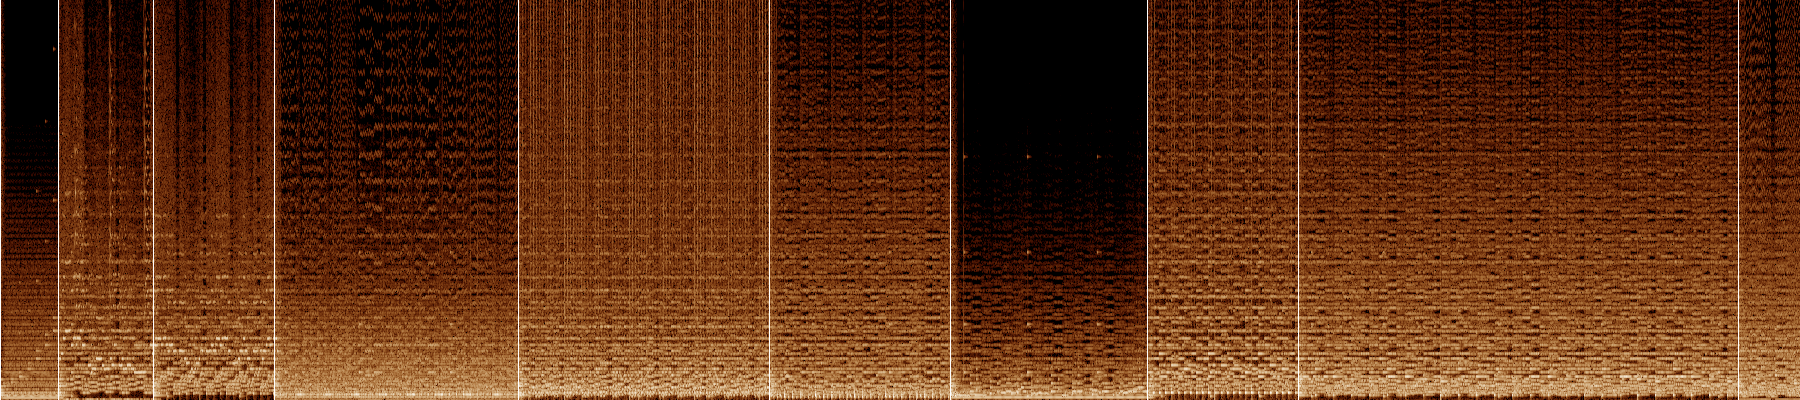
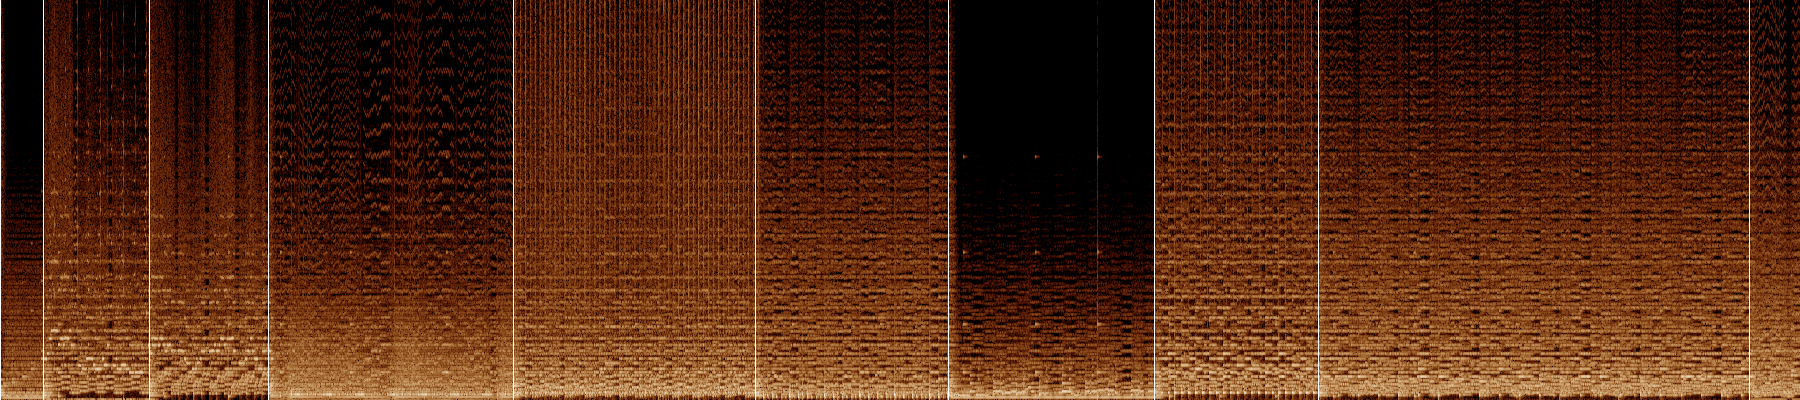
docs: final evidence — contact sheets and audio metrics from fc89e5b renders, run record criteria

diff --git a/docs/runs/2026-10-05-three-lives.md b/docs/runs/2026-10-05-three-lives.md
@@ -15,14 +15,14 @@ Frozen at takeoff. A run changes `status` and `evidence`, never the criterion.
 
 | id | criterion | proven by | status | evidence |
 |---|---|---|---|---|
-| C1 | 每人一份半年粒度轨迹数据 `data/<who>/steps.json`：从出生所在半年到去世所在半年连续无缺（毛 1893H2–1976H2，诸葛 181–234H2，苏 1036H2/1037H1–1101H2，以史料为准）；每步含地点（古名+今名+坐标）、事件、来源、可信度（documented / inferred / traditional） | pytest `test_data.py`；故意删掉一步时测试变红 | open | |
-| C2 | 史料核验：每人 ≥10 个里程碑，每个都有 ≥2 个独立来源；有争议处列入 `contested` 并在旁白中用审慎措辞 | 独立子代理的事实核查报告 `docs/evidence/factcheck-<who>.md`，分歧写入台账 | open | |
-| C3 | 视频逐个半年步推进：HUD 显示「公元 X 年 上/下半年 · 年龄」，每一步都在画面中出现（≥0.4 s），轨迹线随时间生长，当前位置有标记 | pytest `test_timeline.py`（每步帧数、步序单调）；抽样截图 | open | |
-| C4 | 轨迹在中国 3D 地形上展开（DEM 晕渲 + 垂直夸张 + 倾斜相机，覆盖人物活动范围），标注重要地理名称：大江大河、主要山脉/高原，以及人物到过的地点（古名与今名） | 抽样截图（每人 ≥6 张）；`smoke.mjs` 无报错 | open | |
-| C5 | 里程碑高亮：每个里程碑有镜头推近、脉冲光环、标题卡，停留 ≥3 s | pytest（里程碑停留时长）；截图 | open | |
-| C6 | 分阶段 BGM：每人 ≥4 个人生阶段，情绪依性格与经历设定（映射表写入 `music/<who>_stages.json`）；阶段切换时交叉淡化；全部原创合成，不含版权素材 | pytest（阶段覆盖全片、无空隙）；分阶段 RMS/频谱图 | open | |
-| C7 | 讲解详略得当：里程碑处详讲，平淡时期一两句带过或只给字幕；旁白段之间不重叠；字幕烧录 | pytest（旁白不重叠、每个里程碑有旁白、非里程碑旁白总时长占比 <40%）；脚本人工可读 | open | |
-| C8 | 交付 3 个 mp4：1920×1080、30 fps、H.264 + AAC，时长在目标区间内（毛 9–13 min，诸葛 6–9 min，苏 7–10 min），响度 −16±1.5 LUFS，无黑帧 | `check_outputs.py`；成片抽帧拼板 | open | |
+| C1 | 每人一份半年粒度轨迹数据 `data/<who>/steps.json`：从出生所在半年到去世所在半年连续无缺（毛 1893H2–1976H2，诸葛 181–234H2，苏 1036H2/1037H1–1101H2，以史料为准）；每步含地点（古名+今名+坐标）、事件、来源、可信度（documented / inferred / traditional） | pytest `test_data.py`；故意删掉一步时测试变红 | proven | `docs/evidence/gate-final.md`（pytest 全过）；`docs/evidence/mutations.md`：删除 1935H1 一步、坐标越界两项都会让测试变红。诸葛亮生月不详，181H1 已标为 inferred |
+| C2 | 史料核验：每人 ≥10 个里程碑，每个都有 ≥2 个独立来源；有争议处列入 `contested` 并在旁白中用审慎措辞 | 独立子代理的事实核查报告 `docs/evidence/factcheck-<who>.md`，分歧写入台账 | proven | 里程碑数：毛 22、诸葛 14、苏 16；每个里程碑 ≥2 个来源，由 `test_milestones` 检查（mutations.md 中“只留一个来源”会变红）。三份独立核查报告见 `docs/evidence/factcheck-*.md`，问题已逐条落实（F1–F11）。有争议的地方旁白用了“一说”“据《汉晋春秋》”“难以考证”等措辞 |
+| C3 | 视频逐个半年步推进：HUD 显示「公元 X 年 上/下半年 · 年龄」，每一步都在画面中出现（≥0.4 s），轨迹线随时间生长，当前位置有标记 | pytest `test_timeline.py`（每步帧数、步序单调）；抽样截图 | proven | `docs/evidence/gate-final.md`（test_every_half_year_step_is_shown：每步 ≥0.4 s）；`test_js.py` 校验年龄与纪年（mutations.md：去掉年龄下限会变红）；截图见 `docs/evidence/stills/sheet_*.jpg`（取自最终 mp4） |
+| C4 | 轨迹在中国 3D 地形上展开（DEM 晕渲 + 垂直夸张 + 倾斜相机，覆盖人物活动范围），标注重要地理名称：大江大河、主要山脉/高原，以及人物到过的地点（古名与今名） | 抽样截图（每人 ≥6 张）；`smoke.mjs` 无报错 | proven | `docs/evidence/stills/sheet_*.jpg`（每人 18–25 帧，取自最终 mp4）；`docs/evidence/gate-final.md` 中 smoke 三人 0 报错且整帧非空白。地形分 world/china/east 三级，垂直夸张 3.5–14 倍随镜头变化，标注 57 个地理名称并分层显示 |
+| C5 | 里程碑高亮：每个里程碑有镜头推近、脉冲光环、标题卡，停留 ≥3 s | pytest（里程碑停留时长）；截图 | proven | `docs/evidence/gate-final.md`（test_milestones_hold；远途里程碑抵达后停留 ≥3 s；test_milestone_stays_at_its_place）；mutations.md 中停留 1 s、停留点改到杭州两项都会变红；截图见 `stills/mao_fixed.jpg` |
+| C6 | 分阶段 BGM：每人 ≥4 个人生阶段，情绪依性格与经历设定（映射表写入 `music/<who>_stages.json`）；阶段切换时交叉淡化；全部原创合成，不含版权素材 | pytest（阶段覆盖全片、无空隙）；分阶段 RMS/频谱图 | proven | `music/<who>_stages.json`（毛 8 个阶段 8 种情绪、诸葛 6/6、苏 7/7）；`docs/evidence/audio-*.md` 记录分阶段响度、频谱质心、起音密度，阶段边界无静音；频谱图见 `stills/spectrogram_*.png`；`docs/evidence/gate-final.md`（test_music_covers_film_by_stage）。全部由 numpy 合成。审美效果未经试听 |
+| C7 | 讲解详略得当：里程碑处详讲，平淡时期一两句带过或只给字幕；旁白段之间不重叠；字幕烧录 | pytest（旁白不重叠、每个里程碑有旁白、非里程碑旁白总时长占比 <40%）；脚本人工可读 | proven | `docs/evidence/gate-final.md`（按 C7 原文口径：非里程碑旁白 = 概述 + 片头 + 片尾，占比 <40%；旁白不重叠；字幕不重叠；一级里程碑旁白平均长于二级）；mutations.md 中三项变异都会变红。字幕烧录进画面，见截图 |
+| C8 | 交付 3 个 mp4：1920×1080、30 fps、H.264 + AAC，时长在目标区间内（毛 9–13 min，诸葛 6–9 min，苏 7–10 min），响度 −16±1.5 LUFS，无黑帧 | `check_outputs.py`；成片抽帧拼板 | proven | `docs/evidence/gate-final.md` 中的 check_outputs --require（1920×1080@30、h264+aac、时长与时间轴一致且在目标区间内、−16±1.5 LUFS、抽样无黑帧） |
 
 `status` is `open`, `proven` or `parked`.
 
@@ -34,8 +34,8 @@ Frozen at takeoff. A run changes `status` and `evidence`, never the criterion.
 4. [x] 解说词、TTS、时间轴（半年步 + 里程碑停留）— owns C3, C5, C7（时间轴部分）
 5. [x] 引擎场景：轨迹生长、HUD、里程碑高亮、标注 — owns C3, C4, C5
 6. [x] 配乐：三人分阶段情绪设计与合成 — owns C6
-7. [ ] 渲染、混音、总装与审片 — owns C8
-8. [ ] 落地：整体评审、验收清单
+7. [x] 渲染、混音、总装与审片 — owns C8（最终成片对应提交 fc89e5b）
+8. [x] 落地：整体评审、验收清单
 
 ## Ledger
 
@@ -72,15 +72,38 @@ Frozen at takeoff. A run changes `status` and `evidence`, never the criterion.
 | F9 | 史实核查 | fc-mao | 袁家沟坐标取的是清涧县城，偏差约 30 km | minor-fixed | 改用 OSM 高杰村镇驻地（9cb1fac） |
 | F10 | 史实核查 | fc-mao | 1937H1 写《矛盾论》（8 月作，属 H2）；1966H2 应为“畅游”而非“横渡” | minor-fixed | 修改 event 和副标题（9cb1fac） |
 | F11 | 史实核查 | fc-mao | 1966H2 建议写“七十三岁（虚岁）” | rejected | 毛泽东按周岁计算（D11），1966 年 7 月周岁为 72，与旁白一致 |
+| R1 | 整体评审 r1 | 验收审计 | 毛泽东成片过时（715 s ≠ 731 s），机器门禁复跑失败 | blocking-fixed | 当时正在重新渲染；最终门禁见 docs/evidence/gate-final.md |
+| R2 | 整体评审 r1 | 验收审计 | 运行记录中各准则没有证据 | blocking-fixed | 本次落地补齐 |
+| R3 | 整体评审 r1 | 验收审计 | 有两个里程碑只挂一个来源，且没有测试检查来源数量；诸葛亮 181H1 不应标为 documented | minor-fixed | 086d970（补来源，新增测试检查 ≥2 来源，181H1 改为 inferred） |
+| R4 | 整体评审 r1 | 验收审计 | 缺少 C6 的 RMS/频谱证据，“删一步就变红”也没有记录 | minor-fixed | 086d970（audio-*.md，mutations.md） |
+| R5 | 整体评审 r1 | 对抗复查（Codex 替身） | 毛泽东出生时显示“−1 岁” | blocking-fixed | fc89e5b（周岁下限取 0，新增 test_js 检查） |
+| R6 | 整体评审 r1 | 对抗复查 | C7 测试只计概述，与冻结的条款口径不符；按条款计算毛 0.445、苏 0.418，都超过 40% | blocking-fixed | fc89e5b（测试改为按条款口径；删减毛约 68 s、苏约 35 s 旁白） |
+| R7 | 整体评审 r1 | 对抗复查 | 片头第一章节卡期间镜头先猛推再拉回 | minor-fixed | fc89e5b（camera.js 限制 k ≥ 0） |
+| R8 | 整体评审 r1 | 对抗复查 | 三段旁白没有随事实核查一起修改（斩马谡、水路入越巂、郑州西门） | minor-fixed | fc89e5b |
+| R9 | 整体评审 r1 | 对抗复查 | 苏轼出生卡显示“景祐四年·虚岁 2”；诸葛亮 221H1 显示建安；苏轼娶王弗写成“十八岁” | minor-fixed | fc89e5b（出生步特判，章武从 221H1 起算，改为十九岁） |
+| R10 | 整体评审 r1 | 对抗复查 | 莫斯科段用代理点计算，里程少算约 15%；1957 年的代理点偏离约 950 km | minor-fixed | fc89e5b（代理点固定按北京方向，里程按真实坐标累计，新增 test_js 检查） |
+| R11 | 整体评审 r1 | 对抗复查 | 远途里程碑的停留时长把行进时间也算了进去；字幕有 22 处重叠（最长 0.06 s） | minor-fixed | fc89e5b（抵达后至少停 3 s，字幕去重叠，两项都有测试） |
+| R12 | 整体评审 r1 | 对抗复查 | test_milestone_stays_at_its_place 只是照抄实现里的常量 8 | dispute | 审查方：测试复述了实现。我方：“≥8 个途经点才按远途处理”本身就是规格，测试的作用是锁住规格；mutations.md 证明停留点被改到杭州时它会变红 |
+| R13 | 自查·审片 | 主线程 | 远途镜头期间，事件条的 📍 显示星标所在地（遵义），而不是标记当前所在的位置 | minor-open | 1935H1 本身就是“遵义会议”这一步，这样显示也说得通；未改 |
 | F12 | 自查·审片 | 主线程 | 年龄按年份差计算，毛泽东多算一岁；卡片上写“七十三岁” | blocking-fixed | 85cd963 |
 
 ### Parked
 
 | id | needs | exact action | unblocks | verify afterward |
 |---|---|---|---|---|
+| P2 | 修正 Codex 配置（你的账号） | `~/.codex/config.toml` 中设置的 `model = "gpt-6.1-sol"` 不能用于 ChatGPT 账号登录（返回 400），所以没有运行 Codex 对抗评审，改用同一模型族的对抗复查子代理代替（不是跨模型）。改成你账号可用的模型后，执行 `cd lives && CODEX_REVIEW_HEAD=fc89e5b bash ~/.claude/skills/autopilot/scripts/codex-review.sh . 8d63ddd docs/runs/2026-10-05-three-lives.md docs/evidence/review-codex-r1.md` | 跨模型评审 | 生成 `docs/evidence/review-codex-r1.md`，且 verdict 字段有值 |
 | P1 | 你决定是否保留 | 苏轼史料子代理在 23:06 执行了 `pip install lunar_python`（1.4.8，安装到 ~/Library/Python/3.14 的用户 site-packages），合约未预授权这一操作。只有 `data/_build/sushi_lunar.py`（农历→公历换算）用到它，渲染、测试、成片管线都不依赖它。不想保留就执行 `pip3 uninstall lunar_python` | 无（成片不依赖） | `python3 -c "import lunar_python"` 报 ModuleNotFoundError，且 `python3 -m pytest -q tests` 结果不变 |
 
 ### Not verified
+
+| 项目 | 原因 |
+|---|---|
+| 配乐与配音的听感（旋律是否好听、情绪是否贴合、TTS 断句与读音，例如“鞠躬”“谡”“巂”“儋”等字） | 运行中无法试听，只用客观指标（响度、频谱、起音密度、边界无静音）代替 |
+| 完整逐帧观看三部成片 | 只看了每 30 s 一帧的拼板，以及约 60 张定点截图 |
+| 史料来源本身的真伪与网页原文 | 核查代理抓取了维基文库、党史网站等；两部《毛泽东年谱》和孔凡礼《苏轼年谱》没有拿到原文 |
+| 古地名今址的精度 | 有 11 个毛泽东相关地点、6 个诸葛亮相关地点只能定位到县城或示意点（places.json 中标为 low） |
+| 公开发布前的地图合规（审图号） | 片中没有画国界或省界，片尾注明“地图仅示意地形与行迹”；但在中国大陆公开发布含地图的视频是否需要送审，运行中没有判断 |
+| 毛泽东晚年段落的措辞 | 依据 1981 年《历史决议》的官方表述撰写，表述是否得当仍需你判断 |
 
 ## Acceptance walk
 

diff --git a/docs/evidence/audio-mao.md b/docs/evidence/audio-mao.md
@@ -1,21 +1,21 @@
 # 配乐分阶段指标 — mao
 
-命令：`python3 tools/audio_report.py mao`（out/mao/music.wav，由 `music/score.py mao` 生成）
+命令：`python3 tools/audio_report.py mao`（out/mao/music.wav，由 `music/score.py mao` 在 fc89e5b 生成）
 
 ```
 stage     mood                t0      t1    dBFS  centroid  onsets/s
-title     title              0.0    23.6   -22.5       642      2.16
-st1       pastoral          23.6    62.4   -18.2      1425      2.76
-st2       aspire            62.4   111.5   -18.7      1327      1.95
-st3       tension          111.5   210.5   -19.8       917      2.72
-st4       march            210.5   312.6   -18.1      2166      2.98
-st5       epic             312.6   386.0   -17.9      1193      0.79
-st6       contemplative    386.0   466.1   -20.2       431      1.17
-st7       triumph          466.1   527.2   -16.5      1619      1.52
-st8       grand            527.2   705.9   -18.7      1334      1.09
-outro     outro            705.9   731.0   -18.9      1213      2.35
+title     title              0.0    15.8   -21.9       637      2.73
+st1       pastoral          15.8    53.8   -17.7      1426      2.89
+st2       aspire            53.8    96.9   -18.1      1306      1.95
+st3       tension           96.9   185.1   -19.1       916      2.72
+st4       march            185.1   272.4   -17.5      2161       2.9
+st5       epic             272.4   342.0   -17.3      1193       0.9
+st6       contemplative    342.0   416.4   -19.5       437      1.33
+st7       triumph          416.4   475.4   -16.0      1621      1.56
+st8       grand            475.4   630.8   -18.1      1337      1.14
+outro     outro            630.8   648.9   -18.3      1216      2.48
 silent boundaries: none
-peak 0.88 nan False
+peak 0.89 nan False
 ```
 
 阶段→情绪映射与理由：music/mao_stages.json；频谱图：stills/spectrogram_mao.png（白线为阶段边界）

diff --git a/docs/evidence/audio-sushi.md b/docs/evidence/audio-sushi.md
@@ -1,20 +1,20 @@
 # 配乐分阶段指标 — sushi
 
-命令：`python3 tools/audio_report.py sushi`（out/sushi/music.wav，由 `music/score.py sushi` 生成）
+命令：`python3 tools/audio_report.py sushi`（out/sushi/music.wav，由 `music/score.py sushi` 在 fc89e5b 生成）
 
 ```
 stage     mood                t0      t1    dBFS  centroid  onsets/s
-title     title              0.0    19.7   -17.2       584      1.47
-st1       pastoral          19.7    60.6   -16.8      1586      2.64
-st2       aspire            60.6   174.0   -17.3      1317      2.05
-st3       wander           174.0   265.9   -17.0      1662      2.96
-st4       contemplative    265.9   372.4   -19.8       506       1.2
-st5       joyful           372.4   446.1   -17.2      1684      3.16
-st6       elegy            446.1   523.1   -19.6      1013      0.82
-st7       serene           523.1   566.3   -18.7       987      1.53
-outro     outro            566.3   583.2   -16.8      1249      2.12
+title     title              0.0    15.7   -15.7       579      1.66
+st1       pastoral          15.7    56.6   -15.2      1594      2.62
+st2       aspire            56.6   161.5   -15.6      1315      2.11
+st3       wander           161.5   250.4   -15.4      1665      2.96
+st4       contemplative    250.4   349.0   -18.0       516      1.09
+st5       joyful           349.0   413.5   -15.6      1685       3.3
+st6       elegy            413.5   486.1   -17.9      1012      1.01
+st7       serene           486.1   529.2   -17.1       986      1.55
+outro     outro            529.2   546.2   -15.2      1250      2.36
 silent boundaries: none
-peak 0.863 nan False
+peak 0.897 nan False
 ```
 
 阶段→情绪映射与理由：music/sushi_stages.json；频谱图：stills/spectrogram_sushi.png（白线为阶段边界）

diff --git a/docs/evidence/audio-zhuge.md b/docs/evidence/audio-zhuge.md
@@ -1,17 +1,17 @@
 # 配乐分阶段指标 — zhuge
 
-命令：`python3 tools/audio_report.py zhuge`（out/zhuge/music.wav，由 `music/score.py zhuge` 生成）
+命令：`python3 tools/audio_report.py zhuge`（out/zhuge/music.wav，由 `music/score.py zhuge` 在 fc89e5b 生成）
 
 ```
 stage     mood                t0      t1    dBFS  centroid  onsets/s
-title     title              0.0    21.6   -21.5       703      2.41
+title     title              0.0    21.6   -21.4       703      2.41
 st1       contemplative     21.6    76.1   -21.2       521      1.41
-st2       pastoral          76.1   123.4   -18.8      1615      2.77
+st2       pastoral          76.1   123.4   -18.7      1615      2.77
 st3       battle           123.4   209.7   -17.1       785      2.91
-st4       aspire           209.7   256.2   -18.6      1097      2.04
-st5       grand            256.2   358.1   -18.7      1294       1.3
-st6       epic             358.1   509.3   -18.0      1178      0.81
-outro     outro            509.3   535.4   -19.1      1340      2.37
+st4       aspire           209.7   256.2   -18.5      1097      2.04
+st5       grand            256.2   358.9   -18.7      1296      1.29
+st6       epic             358.9   511.7   -18.0      1177      0.82
+outro     outro            511.7   537.8   -19.0      1335      1.57
 silent boundaries: none
 peak 0.895 nan False
 ```
